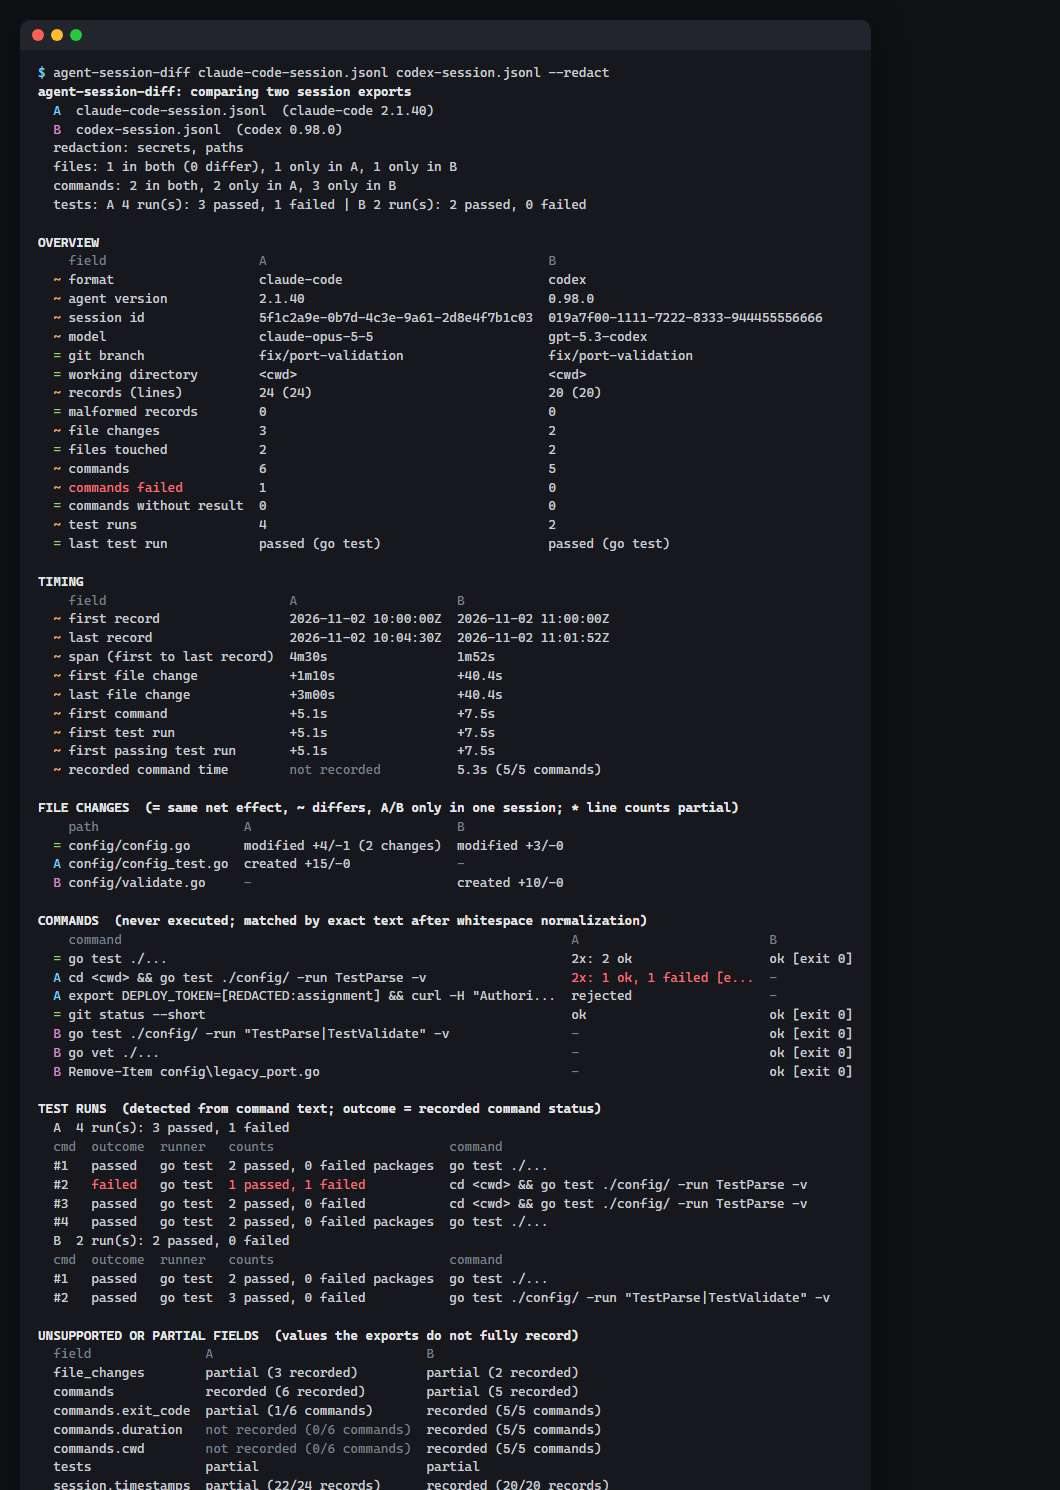
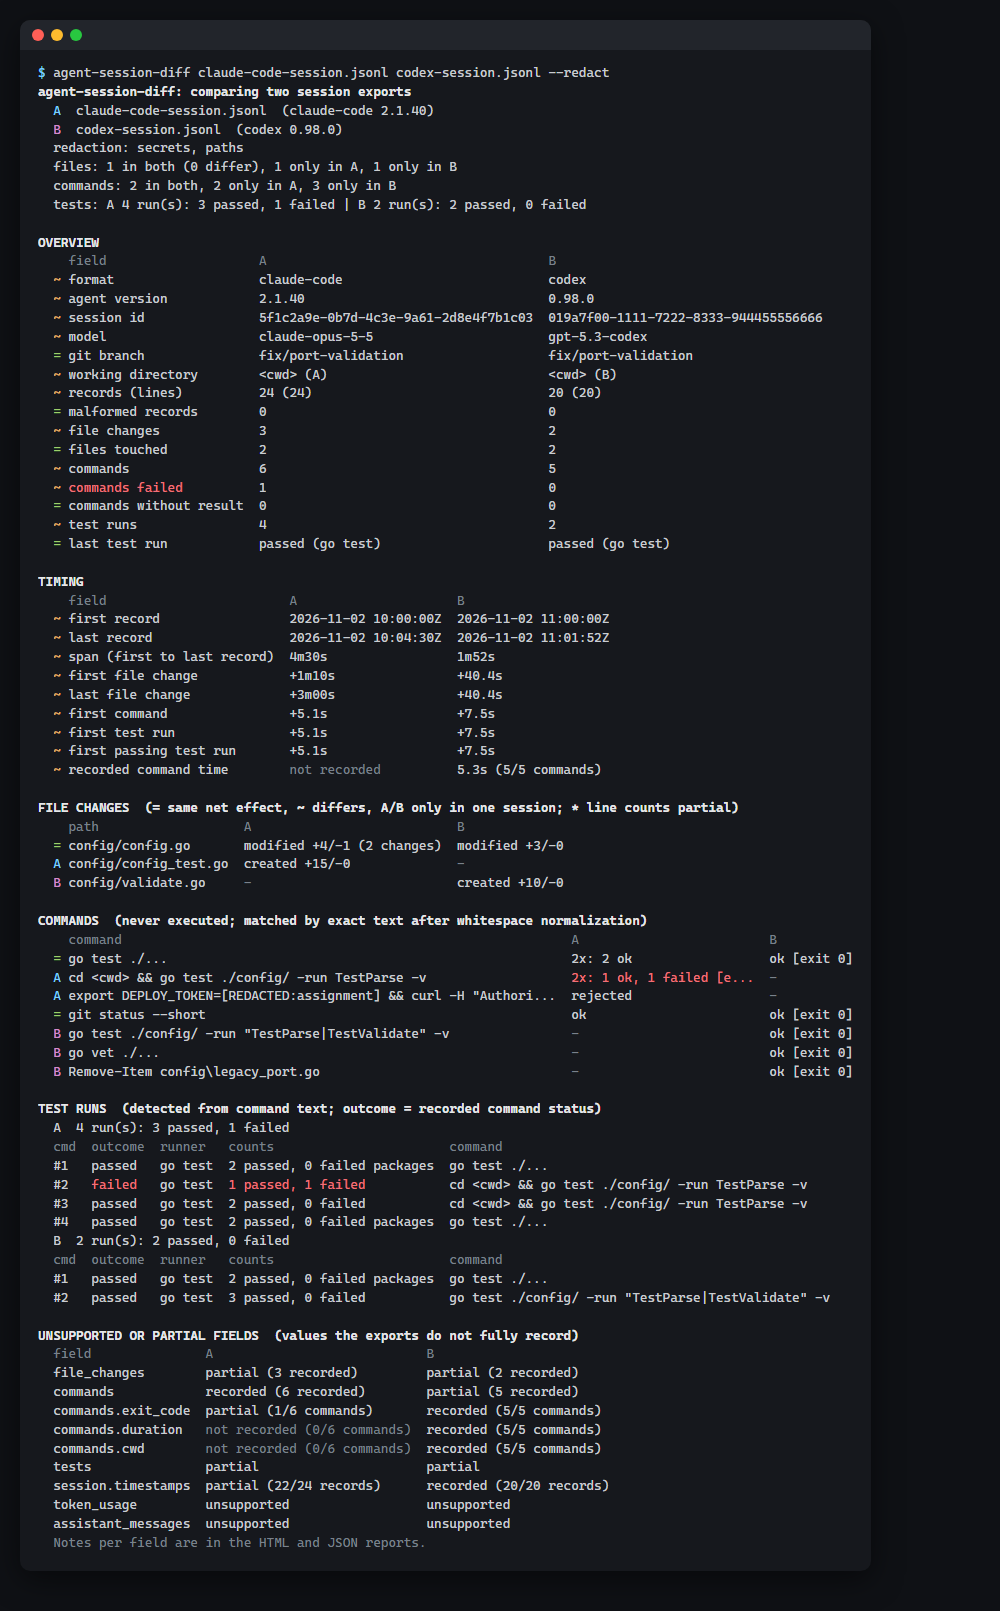
docs: v0.1.0 changelog, release notes, install and example instructions
Refresh the terminal screenshot (full length, shows redacted cwds) and the
license review for distributed binaries.

diff --git a/docs/release-notes/v0.1.0.md b/docs/release-notes/v0.1.0.md
@@ -1,0 +1,62 @@
+First public release of **agent-session-diff**, a small Go CLI that compares two AI coding-agent session exports from Claude Code or Codex CLI. It shows what each session recorded doing: files changed, commands run, test outcomes and timing.
+
+![Terminal summary](https://raw.githubusercontent.com/jahau/agent-session-diff/v0.1.0/docs/screenshots/terminal-summary.png)
+
+## Highlights
+
+- **Side-by-side comparison** of file changes (net effect and +/- lines per path), commands (runs, outcomes, exit codes), test runs (runner, outcome, pass/fail counts when the output has them) and timing (span, time to first change, first test, first passing test).
+- **Three outputs:** a terminal summary, a standalone HTML report (`--html`, inline CSS, no scripts, light and dark) and a full JSON report (`--json`).
+- **Nothing guessed:** values an export doesn't record show as `not recorded`. A field-support table rates every field as recorded, partial (with coverage) or unsupported, with a note explaining why.
+- **Safe by construction:** the tool reads only the two files you name, works offline, never executes logged commands, and never modifies its inputs.
+- **Shareable reports:** `--redact` removes tokens, keys, credentials, home directories and local paths before anything is rendered.
+- **Deterministic:** the same inputs and flags always give byte-identical output.
+
+## Install
+
+```sh
+go install github.com/jahau/agent-session-diff/cmd/agent-session-diff@v0.1.0
+```
+
+Or download the archive for your platform below. Builds are available for Linux, macOS and Windows on amd64 and arm64. Verify the download, then run it:
+
+```sh
+sha256sum --check --ignore-missing SHA256SUMS
+tar -xzf agent-session-diff_0.1.0_linux_amd64.tar.gz
+./agent-session-diff_0.1.0_linux_amd64/agent-session-diff version
+```
+
+The archives are reproducible: building tag `v0.1.0` with Go 1.27.4 and `scripts/build-release.sh v0.1.0` gives byte-identical files.
+
+## Usage
+
+```sh
+agent-session-diff session-a.jsonl session-b.jsonl --html report.html
+agent-session-diff session-a.jsonl session-b.jsonl --redact --html share.html   # for sharing
+agent-session-diff inspect session.jsonl                                       # one session as JSON
+agent-session-diff formats                                                     # supported formats
+```
+
+To try it on the bundled synthetic examples:
+
+```sh
+agent-session-diff examples/claude-code-session.jsonl examples/codex-session.jsonl
+```
+
+## Supported formats
+
+| Format | Location | Checked against |
+| --- | --- | --- |
+| Claude Code session JSONL | `~/.claude/projects/<project>/<session>.jsonl` | 2.1.301 – 2.1.327 |
+| Codex CLI rollout JSONL | `~/.codex/sessions/YYYY/MM/DD/rollout-*.jsonl` | 0.58 – 0.169 (all three tool-call generations) |
+
+## Known limitations
+
+- **Claude Code** records an exit code only for failed commands, and records no command duration or per-command working directory. These show as not recorded.
+- **Codex** unified-exec `exec` script cells are not decoded. The commands they ran are counted only where the export has `CommandExecution` items, and the report marks commands as partial.
+- **Shell file edits:** files changed by shell commands (`sed -i`, `rm`, `git checkout`, redirects) are not detected in either format, and the tool does not infer them.
+- **Command matching** is by exact text after whitespace normalization.
+- **Test runs** are detected from a fixed list of runners (`go test`, `pytest`, `npm`/`pnpm`/`yarn`/`bun test`, `jest`, `vitest`, `cargo test`, `dotnet test`, `rspec`, …).
+- **Not compared:** token usage and conversation text.
+- **Format stability:** neither export format is a stable public interface. Unknown record types are listed as "not interpreted" rather than causing errors.
+
+Feedback and format samples (synthetic or redacted) are welcome in the issues.

diff --git a/README.md b/README.md
@@ -31,13 +31,39 @@ agent-session-diff claude-session.jsonl codex-rollout.jsonl --html report.html
 
 ## Install
 
-Requires Go 1.24 or newer.
+With Go 1.24 or newer:
 
 ```sh
 go install github.com/jahau/agent-session-diff/cmd/agent-session-diff@latest
+agent-session-diff version
 ```
 
-Or build from a checkout: `go build ./cmd/agent-session-diff`.
+Or download a prebuilt binary for Linux, macOS or Windows (amd64 and arm64)
+from the [Releases page](https://github.com/jahau/agent-session-diff/releases).
+Check the archive against `SHA256SUMS` before you run it:
+
+```sh
+sha256sum --check --ignore-missing SHA256SUMS
+```
+
+The release archives are reproducible. Building the tagged commit with Go
+1.27.4 and `scripts/build-release.sh <tag>` produces byte-identical files.
+
+To build from a checkout: `go build ./cmd/agent-session-diff`.
+
+## Try it on the bundled examples
+
+The repository includes two synthetic sessions of the same small task, one
+from Claude Code and one from Codex:
+
+```sh
+git clone https://github.com/jahau/agent-session-diff
+cd agent-session-diff
+go run ./cmd/agent-session-diff examples/claude-code-session.jsonl examples/codex-session.jsonl --html report.html
+```
+
+The output should match [examples/report.txt](examples/report.txt). CI checks
+that it does.
 
 ## Usage
 
@@ -126,9 +152,13 @@ output in [examples/report.txt](examples/report.txt).
   BOMs and CRLF line endings. Parsing continues.
 - Files with no recognizable format (empty, plain text, binary) are rejected
   with a clear error, not compared as empty sessions.
-- Logged text is escaped in HTML and stripped of control characters in the
-  terminal, so a logged ANSI sequence or `<script>` cannot affect your terminal
-  or browser.
+- Logged text is escaped in HTML, and control characters are shown as `\xNN`
+  in both the terminal and HTML output. A logged ANSI sequence or `<script>`
+  cannot affect your terminal or browser. A test feeds a hostile export
+  through the tool and checks that the report contains only the template's own
+  tags and no event-handler or URL attributes.
+- Input files are opened read-only and never modified, with or without
+  redaction.
 
 ## Development
 
@@ -143,8 +173,13 @@ session data. The fake credentials in them exist to test redaction.
 
 CI (`.github/workflows/ci.yml`) runs formatting, vet, a no-dependency check,
 tests on Linux, macOS and Windows with Go 1.24 and current stable, the race
-detector, `govulncheck`, a determinism check, and a check that
-`examples/report.*` matches the current build.
+detector, `govulncheck`, a determinism check, a check that
+`examples/report.*` matches the current build, and a double build that proves
+the release archives are reproducible.
+
+Releases: pushing a `v*` tag runs `.github/workflows/release.yml`. It tests,
+builds the archives and creates a **draft** GitHub release from
+`docs/release-notes/<tag>.md`. A maintainer then reviews and publishes it.
 
 ## License
 

diff --git a/docs/license-review.md b/docs/license-review.md
@@ -1,6 +1,6 @@
 # License review
 
-Reviewed: 2026-11-18, for the initial implementation.
+Reviewed: 2026-11-18, for the initial implementation and again for v0.1.0.
 
 ## Project license
 
@@ -17,15 +17,17 @@ module. CI fails if a dependency is added without updating this review (the
 `deps` step in `.github/workflows/ci.yml`).
 
 The Go standard library's BSD-3-Clause license allows redistribution of
-binaries. When distributing built binaries, include the Go license notice
-(`$(go env GOROOT)/LICENSE`) alongside this project's `LICENSE`.
+binaries if its notice is included. Every release archive built by
+`scripts/build-release.sh` contains this project's `LICENSE` and the Go
+toolchain's notice as `LICENSE-Go`.
 
 ## CI-only tools (not distributed)
 
 | Tool | License | Use |
 | --- | --- | --- |
 | `actions/checkout`, `actions/setup-go` | MIT | GitHub Actions steps. |
-| `golang.org/x/vuln/cmd/govulncheck` | BSD-3-Clause | Vulnerability scan in CI. Fetched at run time, not vendored or linked. |
+| `golang.org/x/vuln/cmd/govulncheck` v1.9.0 | BSD-3-Clause | Vulnerability scan in CI. Fetched at run time, not vendored or linked. |
+| GNU tar, gzip, zip (ubuntu-latest runner) | GPL / zip license | Package release archives. Not included in the archives. |
 
 ## Repository content
 

diff --git a/CHANGELOG.md b/CHANGELOG.md
@@ -1,8 +1,8 @@
 # Changelog
 
-## Unreleased
+## v0.1.0
 
-Initial implementation.
+First public release.
 
 - Compare two explicitly supplied session exports: file changes, commands,
   test runs, timing and field support.
@@ -15,3 +15,15 @@ Initial implementation.
 - `inspect` subcommand prints one normalized session as JSON.
 - Logged commands are never executed. A test enforces that no package can
   start processes or open network connections.
+- Reproducible prebuilt archives for Linux, macOS and Windows (amd64, arm64)
+  with `SHA256SUMS`.
+
+Fixed during release preparation:
+
+- `agent-session-diff version` printed `dev` for `go install …@vX.Y.Z`
+  builds. It now reports the module version.
+- With `--redact-paths`, two different working directories both appeared as
+  `<cwd>` and were reported as equal. They now appear as `<cwd> (A)` and
+  `<cwd> (B)`.
+- Control characters from logs (such as ESC and BEL) reached the HTML report
+  as raw bytes. They are now written as `\xNN`, as in the terminal output.
